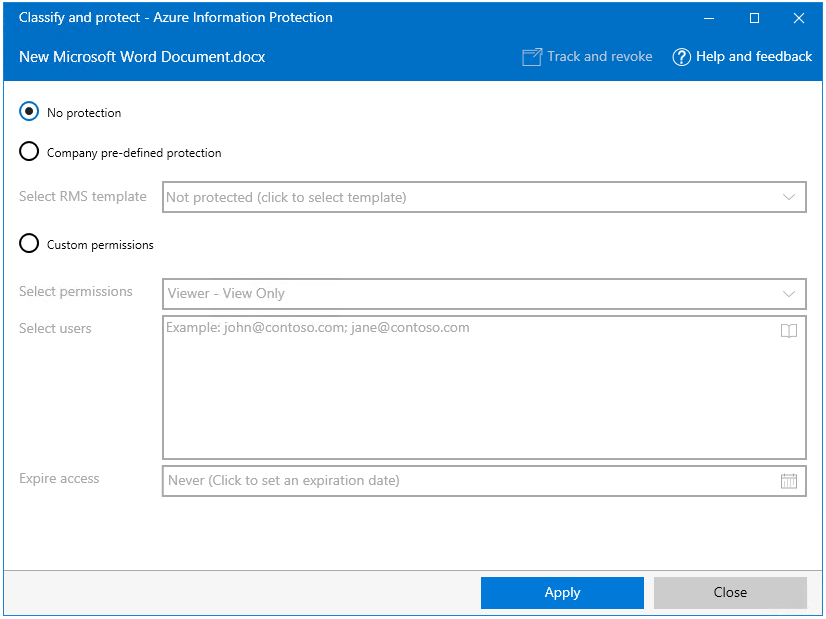
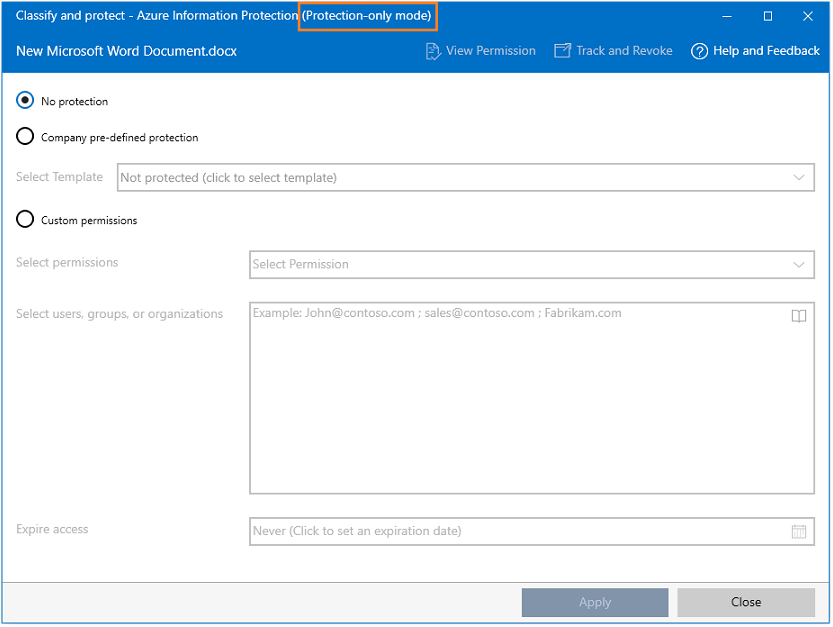
update protection-only picture for rebranding - no rms

Changed region(s): [[0.0, 0.0, 0.9988, 1.0], [0.8475, 0.0, 0.8777, 0.0307]]

diff --git a/Azure-RMSDocs/rms-client/client-protection-only-mode.md b/Azure-RMSDocs/rms-client/client-protection-only-mode.md
@@ -6,7 +6,7 @@ description: Information for users who run the Azure Information Protection clie
 author: cabailey
 ms.author: cabailey
 manager: mbaldwin
-ms.date: 08/06/2018
+ms.date: 10/04/2018
 ms.topic: conceptual
 ms.service: information-protection
 ms.assetid: 16042717-0d7a-41f5-87e3-12826fda35df
